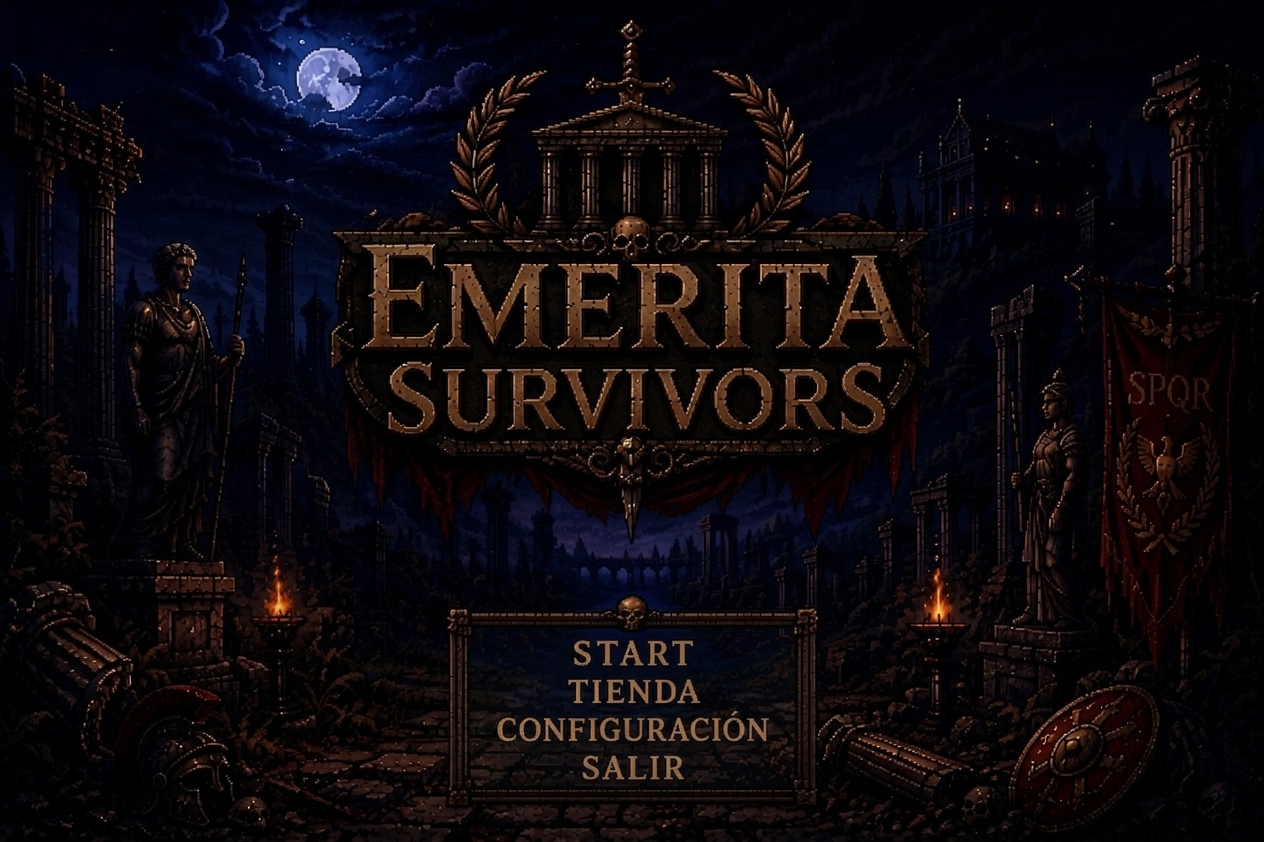
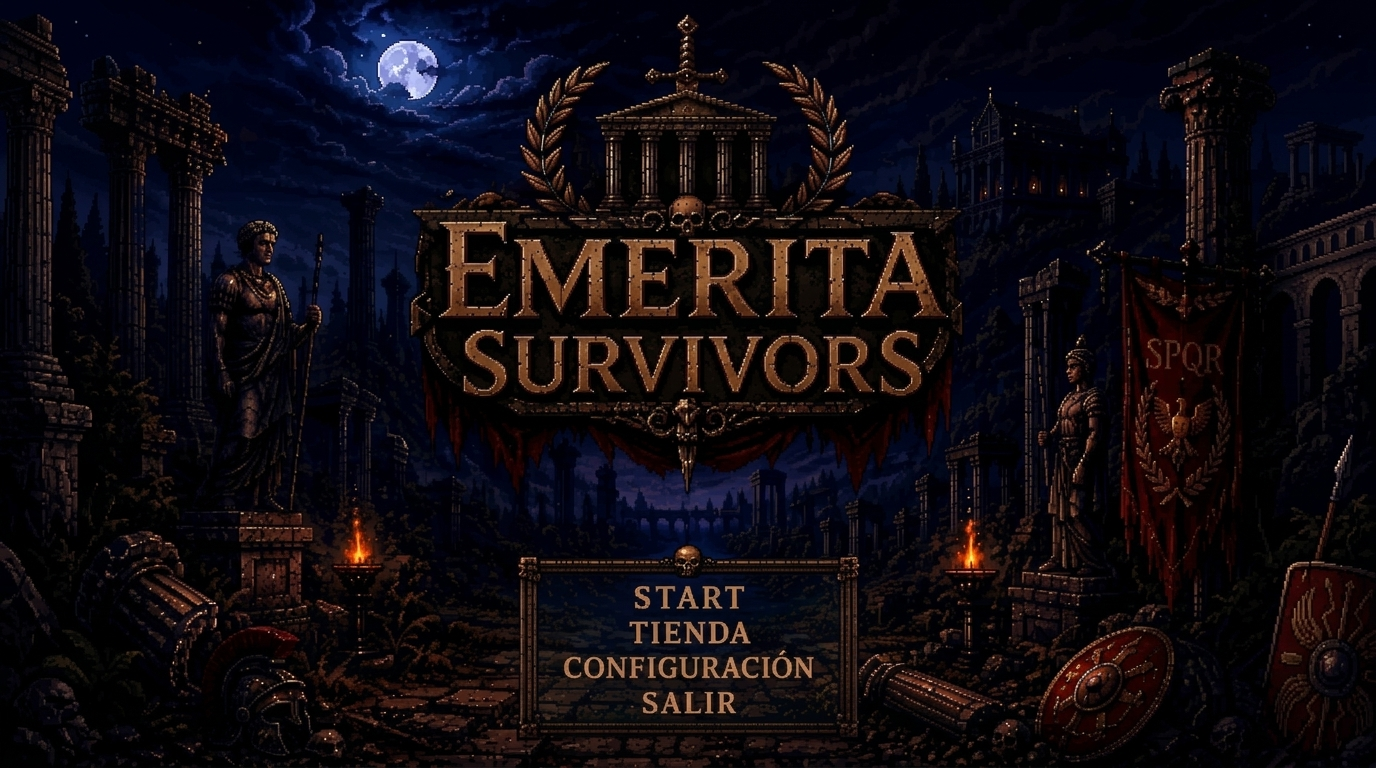
El menu se adapta a la ilustracion casi 16:9
La ilustracion pasa a 1376x768. No es 1080p -- su proporcion es 1,792 contra el
1,778 de la pantalla-, pero se acerca lo bastante como para cambiar el encaje:
ahora LLENA cubriendo el alto exacto y solo sobran quince pixeles de ancho,
siete y medio recortados a cada lado, que ahi son escenario. Fuera el telon
lateral que hacia falta con la version 3:2.

Y queda un umbral que elige entre los dos encajes, en vez de dejar el que valga
hoy. No es generalidad especulativa: con la ilustracion 3:2 el recorte dejaba
SALIR fuera de la pantalla, y ese sintoma no aparece hasta que alguien baja
hasta esa opcion.

Antorchas y opciones remedidas. Dos precauciones que costaron tres intentos y
quedan escritas donde se usan:

  - HAY QUE MEDIR DENTRO DE LOS RIELES DEL MARCO. Son mas claros que el fondo,
    asi que una ventana de medida que los pise los cuenta como texto y los
    cuatro renglones salen con el mismo ancho: el del marco.
  - Y HAY QUE BUSCAR LOS RIELES EN UN HUECO SIN TEXTO. A la altura de un
    renglon, lo que se encuentra es la palabra.

Esta vez el texto SI esta centrado en el marco -palabras en 689, hueco entre
rieles centrado en 688-, pero el recuadro se sigue tomando del texto: en la
ilustracion anterior iban siete pixeles a la izquierda, y darlo por hecho fue el
fallo de la primera version de esta pantalla.

Claude-Session: https://claude.ai/code/session_019a3P2z8mekfogGbPZuwZn3

diff --git a/js/ui/pantallas.js b/js/ui/pantallas.js
@@ -75,53 +75,53 @@ const ARCO_Y = 264;
 const ARCO_ALTO = 482;
 
 // LAS CUATRO OPCIONES DEL MENÚ, medidas sobre la ilustración (Main_menu.jpg,
-// 1264x842). Vienen pintadas en su marco —START, TIENDA, CONFIGURACIÓN y
+// 1376x768). Vienen pintadas en su marco —START, TIENDA, CONFIGURACIÓN y
 // SALIR—, así que aquí NO se vuelven a escribir: lo único que falta es decir
 // cuál está señalada, y eso se hace ILUMINANDO SU RECUADRO. Es el criterio de
 // toda esta pantalla: no competir con el arte.
 //
-// LAS MEDIDAS NO VAN A OJO, y con este dibujo hubo que afinar cómo se toman.
-// La versión anterior del menú tenía una placa de fondo OSCURO y bastaba con
-// buscar píxeles claros; esta trae un marco CALADO, con el escenario visible
-// por detrás, así que el empedrado se colaba en el recuento. Se calibró
-// midiendo la luminancia máxima por fila en la banda del menú: los renglones de
-// texto dan 120-141 y los huecos entre ellos 35-58, sin solape ninguno, así que
-// el corte en 90 los separa limpiamente.
+// LAS MEDIDAS NO VAN A OJO. Salen de barrer la imagen contando píxeles claros
+// por filas, con dos precauciones que costó descubrir:
+//
+//   - HAY QUE MEDIR DENTRO DE LOS RIELES DEL MARCO. Los rieles son más claros
+//     que el fondo, así que una ventana de medida que los pise los cuenta como
+//     texto y todos los renglones salen del mismo ancho: el del marco.
+//   - Y HAY QUE MEDIRLOS EN UN HUECO SIN TEXTO. Buscarlos a la altura de un
+//     renglón devuelve la palabra, no el riel.
+//
+// Con eso, los rieles caen en x=521 y x=856, y el interior va de 530 a 847.
 //
 // Lo medido, en píxeles de la imagen:
 //
-//     START            y 641..664   x 574..692   (119 de ancho)
-//     TIENDA           y 680..702   x 569..699   (131)
-//     CONFIGURACIÓN    y 718..740   x 498..767   (270)
-//     SALIR            y 756..778   x 583..683   (101)
+//     START            y 586..607   x 635..743   (109 de ancho)
+//     TIENDA           y 622..642   x 630..749   (120)
+//     CONFIGURACIÓN    y 657..677   x 564..812   (249)
+//     SALIR            y 692..712   x 643..735   ( 93)
 //
-// Las cuatro miden lo mismo de alto y van separadas 38-39.
+// Las cuatro miden lo mismo de alto y van separadas 35-36.
 //
-// EL CENTRO ES EL DEL TEXTO, NO EL DEL MARCO. Los rieles del marco están en
-// x=462 y x=814 —salen como dos picos de luz al perfilar la banda por columnas—
-// así que su hueco interior va de 472 a 808 y su centro cae en 640. Pero las
-// cuatro palabras están centradas en 633, siete píxeles a la izquierda. Poner
-// el recuadro en el centro del marco fue justo el fallo de la primera versión
-// de esta pantalla, y se notaba: sobraba margen por un lado.
-const OPCION_X = 633;
+// Y esta vez el texto SÍ está centrado en el marco: las palabras caen en 689 y
+// el hueco entre rieles tiene su centro en 688. En la ilustración anterior no
+// era así —las palabras iban siete píxeles a la izquierda del centro del marco—
+// y por eso este número se sigue tomando del texto y no del marco.
+const OPCION_X = 689;
 
 // Un solo ancho para las cuatro, y lo manda la más larga: CONFIGURACIÓN mide
-// 270. Con 296 quedan trece píxeles de aire a cada lado de esa palabra, y el
-// recuadro sigue holgado dentro del hueco del marco (472..808).
+// 249. Con 276 quedan trece píxeles de aire a cada lado de esa palabra, y el
+// recuadro entra holgado en el hueco del marco (530..847).
 //
-// Que a SALIR —101 de ancho— le sobre sitio es deliberado: un recuadro que
+// Que a SALIR —93 de ancho— le sobre sitio es deliberado: un recuadro que
 // cambia de tamaño según la palabra no se lee como un cursor que se mueve, sino
 // como cuatro recuadros distintos.
-const OPCION_ANCHO = 296;
+const OPCION_ANCHO = 276;
 
-// Alto: 23 de texto más 10 de aire. Con 38 de separación entre renglones, deja
-// cinco píxeles de hueco entre un recuadro y el siguiente — suficiente para que
-// se vean como cajas separadas y no como una columna continua.
+// Alto: 21 de texto más 10 de aire. Con 35 de separación entre renglones, deja
+// cuatro píxeles de hueco entre un recuadro y el siguiente.
 const OPCIONES_TITULO = [
-  { y: 652, alto: 33 },     // START
-  { y: 691, alto: 33 },     // TIENDA
-  { y: 729, alto: 33 },     // CONFIGURACIÓN
-  { y: 767, alto: 33 }      // SALIR
+  { y: 596, alto: 31 },     // START
+  { y: 632, alto: 31 },     // TIENDA
+  { y: 667, alto: 31 },     // CONFIGURACIÓN
+  { y: 702, alto: 31 }      // SALIR
 ];
 
 const Imagenes = { titulo: null, seleccion: null };

diff --git a/js/ui/tituloVivo.js b/js/ui/tituloVivo.js
@@ -33,29 +33,41 @@ import { crearRng } from '../core/rng.js';
 // después cada fotograma es una copia 1:1, que es lo que el navegador hace
 // rápido. Eso sigue mereciendo la pena aunque ahora encima solo vaya el fuego.
 //
-// Y SE ENCAJA ENTERA, SIN RECORTAR. La ilustración es 3:2 y la pantalla 16:9,
-// así que sobran 130 filas de imagen. La versión anterior las quitaba —llenaba
-// el ancho y recortaba por arriba y por abajo—, y con el dibujo nuevo eso ya no
-// vale: las cuatro opciones están pintadas abajo, y recortando se perdía SALIR
-// entera y media CONFIGURACIÓN.
+// CÓMO SE ENCAJA, que depende de lo que mida la ilustración.
 //
-// Así que se encaja a lo alto, centrada, y las dos franjas de 150 píxeles que
-// quedan a los lados se rellenan con la propia imagen estirada y apagada por
-// detrás. Es lo mismo que hace la placa de la historia en ui/intro.js: ni se
-// deforma el dibujo ni salen bandas negras.
+// La de ahora es 1376x768 —proporción 1,792 contra el 1,778 de la pantalla— así
+// que LLENA de sobra: cubriendo el alto exacto sobran quince píxeles de ancho,
+// siete y medio recortados a cada lado, y ahí no hay más que escenario. Eso es
+// lo que hace `cubrir`, y es lo ideal: sin deformar y sin bandas.
+//
+// Pero eso no siempre fue verdad. Una ilustración anterior era 3:2, y cubrir
+// con ella se comía 130 filas: las cuatro opciones van pintadas abajo, y el
+// recorte dejaba SALIR fuera de la pantalla y CONFIGURACIÓN partida. Ese caso
+// se resuelve al revés, encajando la imagen ENTERA a lo alto y rellenando las
+// franjas de los lados con la propia imagen apagada por detrás.
+//
+// De ahí que estén los dos caminos y un umbral que elige. No es generalidad
+// especulativa: ya se rompió una vez, y el sintoma —una opcion del menu que no
+// se ve— no aparece hasta que alguien baja hasta ella.
 
 // Píxeles del lienzo del mundo por unidad de interfaz.
 const K = ANCHO_FISICO / ANCHO_UI;
 
+// Cuánto puede desviarse la proporción de la ilustración de la de la pantalla
+// antes de dejar de recortarla. Un 5% sobre 16:9 admite desde 1,69 hasta 1,87,
+// que cubre cualquier "casi 16:9" razonable y deja fuera un 3:2 (1,50), que es
+// justo el caso que hay que tratar de otra manera.
+const TOLERANCIA_ENCAJE = 0.05;
+
 // CENTRO DE LA LLAMA DE CADA ANTORCHA, en píxeles de la ilustración original
-// (1264x842), como el resto de medidas de pantallas.js.
+// (1376x768), como el resto de medidas de pantallas.js.
 //
 // No van a ojo: salen de barrer la imagen buscando naranja muy claro (r>215,
 // b<110) por debajo del logo y agrupar por celdas de 50 píxeles. Los dos grupos
 // salieron limpios.
 const ANTORCHAS = [
-  { x: 278, y: 604 },
-  { x: 939, y: 607 }
+  { x: 358, y: 550 },
+  { x: 970, y: 554 }
 ];
 
 // Son ANTORCHAS, no los pebeteros de la ilustración anterior: la llama es
@@ -99,18 +111,28 @@ export const TituloVivo = {
     c.imageSmoothingEnabled = true;
     c.imageSmoothingQuality = 'high';
 
-    // El telón: la misma imagen a todo lo ancho y apagada, solo para que los
-    // lados no queden vacíos.
-    c.drawImage(img, 0, 0, W, H);
-    c.fillStyle = 'rgba(5,5,12,0.72)';
-    c.fillRect(0, 0, W, H);
+    const suya = img.width / img.height;
+    const pantalla = W / H;
 
-    // Y encima la ilustración entera, encajada a lo alto y centrada.
-    const esc = H / img.height;
-    const ancho = img.width * esc;
-    const ox = (W - ancho) / 2;
-    const oy = 0;
-    c.drawImage(img, ox, oy, ancho, H);
+    let esc, ox, oy;
+    if (Math.abs(suya - pantalla) / pantalla <= TOLERANCIA_ENCAJE) {
+      // CUBRIR: llena la pantalla y lo que sobra se recorta. Con la ilustración
+      // de ahora eso son siete píxeles y medio por lado, de puro escenario.
+      esc = Math.max(W / img.width, H / img.height);
+      ox = (W - img.width * esc) / 2;
+      oy = (H - img.height * esc) / 2;
+      c.drawImage(img, ox, oy, img.width * esc, img.height * esc);
+    } else {
+      // ENCAJAR ENTERA, con telón: la imagen no se parece a la pantalla y
+      // recortarla se llevaría por delante parte del dibujo.
+      c.drawImage(img, 0, 0, W, H);
+      c.fillStyle = 'rgba(5,5,12,0.72)';
+      c.fillRect(0, 0, W, H);
+      esc = Math.min(W / img.width, H / img.height);
+      ox = (W - img.width * esc) / 2;
+      oy = (H - img.height * esc) / 2;
+      c.drawImage(img, ox, oy, img.width * esc, img.height * esc);
+    }
 
     estado.lienzo = lienzo;
     estado.esc = esc;
